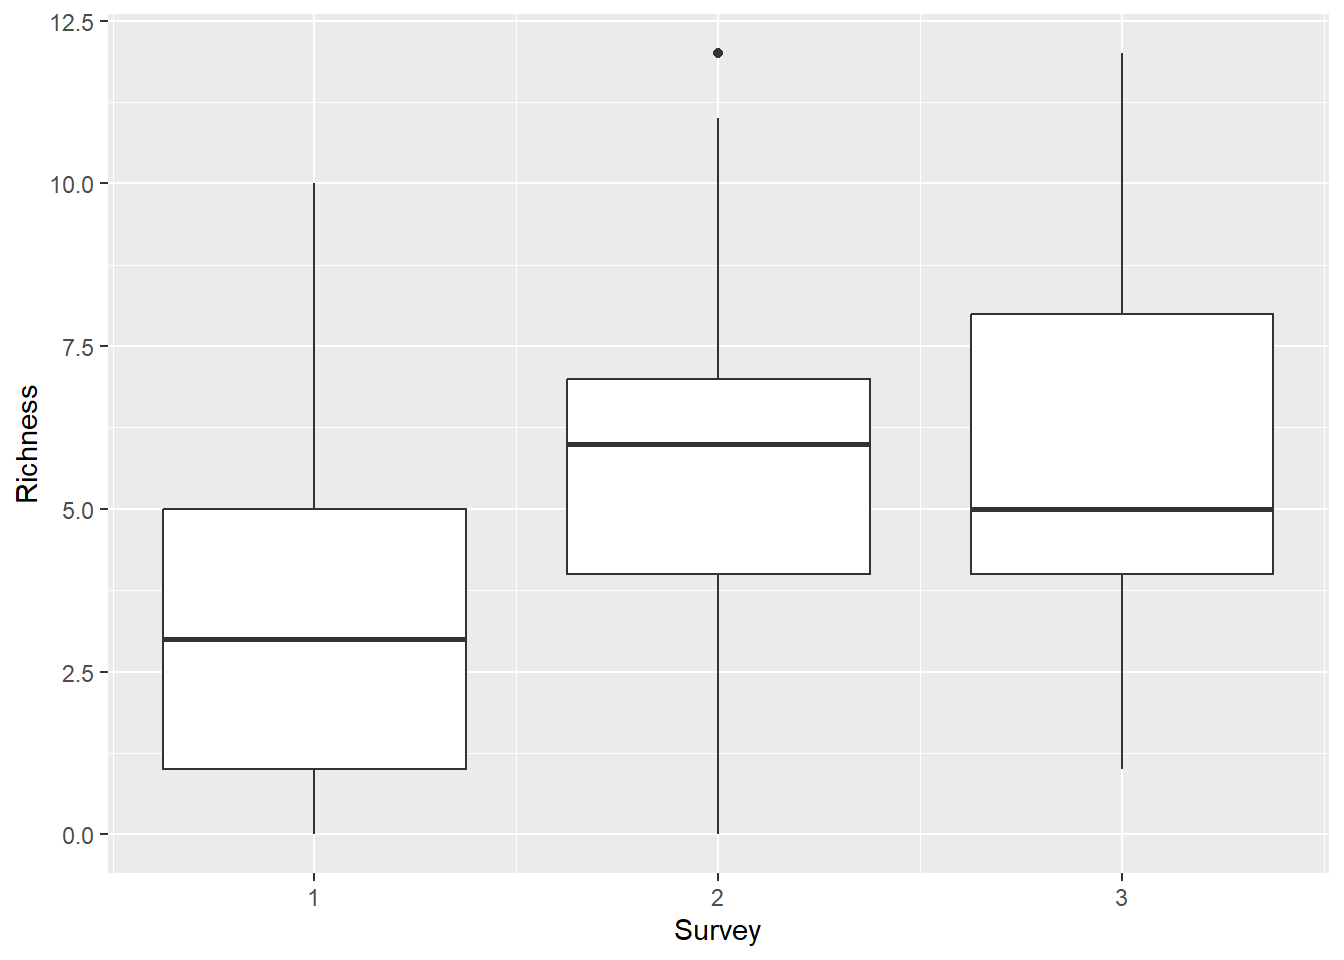
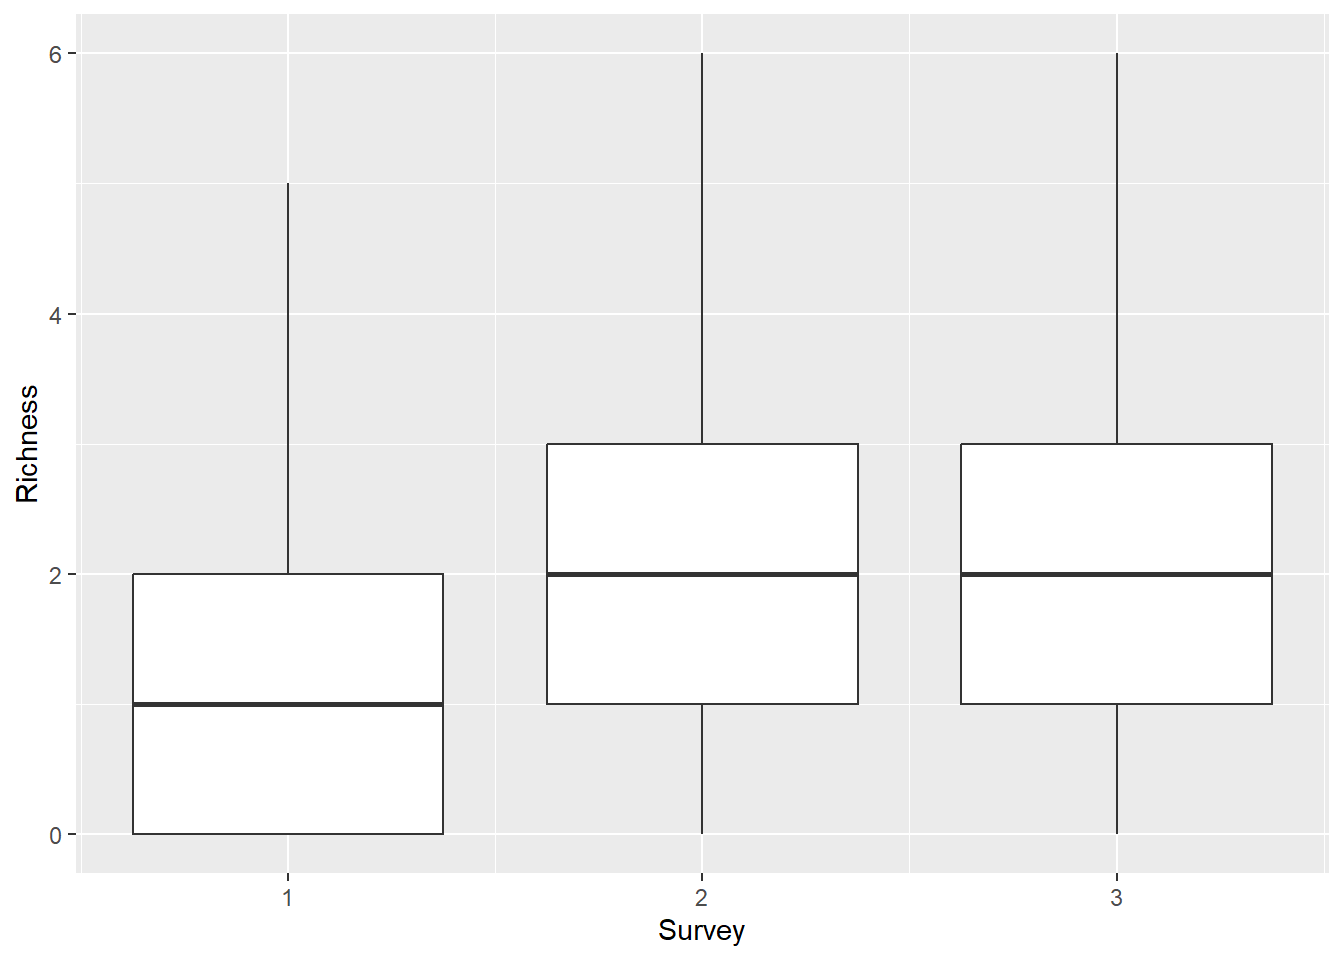
update richness calcs and replace

diff --git a/aquatic-plants.html b/aquatic-plants.html
@@ -486,7 +486,7 @@ First, let’s estimate species richness for each <code>Site</code> and
 <code>Longitude</code> and <code>Latitude</code> here so we can play
 with those below.</p>
 <div class="sourceCode" id="cb6"><pre class="sourceCode r"><code class="sourceCode r"><span id="cb6-1"><a href="#cb6-1" tabindex="-1"></a>richness <span class="ot">&lt;-</span> long_data <span class="sc">%&gt;%</span> </span>
-<span id="cb6-2"><a href="#cb6-2" tabindex="-1"></a>  <span class="fu">group_by</span>(Site, Survey, Longitude, Latitude) <span class="sc">%&gt;%</span> </span>
+<span id="cb6-2"><a href="#cb6-2" tabindex="-1"></a>  <span class="fu">group_by</span>(Site, Survey, Toss, Longitude, Latitude) <span class="sc">%&gt;%</span> </span>
 <span id="cb6-3"><a href="#cb6-3" tabindex="-1"></a>  <span class="fu">summarize</span>(<span class="at">Richness =</span> <span class="fu">sum</span>(Presence))</span></code></pre></div>
 <p>Now we can make a boxplot to visualize richness across surveys (June,
 July, August) to see if there are obvious seasonal trends.</p>
@@ -495,8 +495,8 @@ July, August) to see if there are obvious seasonal trends.</p>
 <p><img src="aquatic-plants_files/figure-html/unnamed-chunk-8-1.png" width="672" /></p>
 <p>This is cool, but you could spend some time to make it a little
 prettier. It looks like there is an increase from June through the later
-months, but it’s not super clear whether survey <code>2</code> and
-<code>3</code> differed from one another.</p>
+months, but it’s not super clear whether <code>Richness</code> differed
+between surveys <code>2</code> and <code>3</code>.</p>
 <p>You could formally test for differences among groups using a variety
 of approaches.</p>
 </div>
@@ -511,7 +511,7 @@ were significant differences in Richness among surveys.</p>
 <span id="cb8-3"><a href="#cb8-3" tabindex="-1"></a>    Kruskal<span class="sc">-</span>Wallis rank sum test</span>
 <span id="cb8-4"><a href="#cb8-4" tabindex="-1"></a></span>
 <span id="cb8-5"><a href="#cb8-5" tabindex="-1"></a>data<span class="sc">:</span>  Richness by Survey</span>
-<span id="cb8-6"><a href="#cb8-6" tabindex="-1"></a>Kruskal<span class="sc">-</span>Wallis chi<span class="sc">-</span>squared <span class="ot">=</span> <span class="fl">33.549</span>, df <span class="ot">=</span> <span class="dv">2</span>, p<span class="sc">-</span>value <span class="ot">=</span> <span class="fl">5.187e-08</span></span></code></pre></div>
+<span id="cb8-6"><a href="#cb8-6" tabindex="-1"></a>Kruskal<span class="sc">-</span>Wallis chi<span class="sc">-</span>squared <span class="ot">=</span> <span class="fl">60.202</span>, df <span class="ot">=</span> <span class="dv">2</span>, p<span class="sc">-</span>value <span class="ot">=</span> <span class="fl">8.459e-14</span></span></code></pre></div>
 <p>This tells us that there were differences among surveys, but it
 doesn’t give us any statistical information about how richness differed
 among sites. For that you’d need to use some kind of pairwise comparison
@@ -528,8 +528,8 @@ specifically for that approach (there are a bunch).</p>
 <span id="cb9-7"><a href="#cb9-7" tabindex="-1"></a>data<span class="sc">:</span>  richness<span class="sc">$</span>Richness and richness<span class="sc">$</span>Survey </span>
 <span id="cb9-8"><a href="#cb9-8" tabindex="-1"></a></span>
 <span id="cb9-9"><a href="#cb9-9" tabindex="-1"></a>  <span class="dv">1</span>       <span class="dv">2</span></span>
-<span id="cb9-10"><a href="#cb9-10" tabindex="-1"></a><span class="dv">2</span> <span class="fl">8.6e-07</span> <span class="sc">-</span></span>
-<span id="cb9-11"><a href="#cb9-11" tabindex="-1"></a><span class="dv">3</span> <span class="fl">3.2e-06</span> <span class="dv">1</span></span>
+<span id="cb9-10"><a href="#cb9-10" tabindex="-1"></a><span class="dv">2</span> <span class="fl">3.4e-11</span> <span class="sc">-</span></span>
+<span id="cb9-11"><a href="#cb9-11" tabindex="-1"></a><span class="dv">3</span> <span class="fl">7.0e-11</span> <span class="dv">1</span></span>
 <span id="cb9-12"><a href="#cb9-12" tabindex="-1"></a></span>
 <span id="cb9-13"><a href="#cb9-13" tabindex="-1"></a>P value adjustment method<span class="sc">:</span> bonferroni </span></code></pre></div>
 <p>This output shows that richness differed significantly between
@@ -580,19 +580,19 @@ like.</p>
 <span id="cb10-21"><a href="#cb10-21" tabindex="-1"></a></span>
 <span id="cb10-22"><a href="#cb10-22" tabindex="-1"></a>(Dispersion parameter <span class="cf">for</span> poisson family taken to be <span class="dv">1</span>)</span>
 <span id="cb10-23"><a href="#cb10-23" tabindex="-1"></a></span>
-<span id="cb10-24"><a href="#cb10-24" tabindex="-1"></a>    Null deviance<span class="sc">:</span> <span class="fl">340.47</span>  on <span class="dv">161</span>  degrees of freedom</span>
-<span id="cb10-25"><a href="#cb10-25" tabindex="-1"></a>Residual deviance<span class="sc">:</span> <span class="fl">207.62</span>  on <span class="dv">156</span>  degrees of freedom</span>
-<span id="cb10-26"><a href="#cb10-26" tabindex="-1"></a>AIC<span class="sc">:</span> <span class="fl">730.52</span></span>
+<span id="cb10-24"><a href="#cb10-24" tabindex="-1"></a>    Null deviance<span class="sc">:</span> <span class="fl">639.03</span>  on <span class="dv">485</span>  degrees of freedom</span>
+<span id="cb10-25"><a href="#cb10-25" tabindex="-1"></a>Residual deviance<span class="sc">:</span> <span class="fl">506.18</span>  on <span class="dv">480</span>  degrees of freedom</span>
+<span id="cb10-26"><a href="#cb10-26" tabindex="-1"></a>AIC<span class="sc">:</span> <span class="fl">1473.7</span></span>
 <span id="cb10-27"><a href="#cb10-27" tabindex="-1"></a></span>
 <span id="cb10-28"><a href="#cb10-28" tabindex="-1"></a>Number of Fisher Scoring iterations<span class="sc">:</span> <span class="dv">5</span></span></code></pre></div>
 <p>We could check out the residuals to see whether we are in extreme
 violation of distributional assumptions. These plots show that the model
-residuals are more-or-less symmetrical, which aligns with assumptions of
-the Poissson distribution. There are a few zeroes in the earliest survey
-that are expressed as a peak around -1 for survey 1 in the plot below.
-If this was a larger proportion we’d have to be careful about assessing
-their influence, and may opt for an alternative approach, but this will
-suffice for the rest of our example for now.</p>
+residuals in Surveys 2 and 3 are more-or-less symmetrical, which aligns
+with assumptions of the Poisson distribution. But, there are quite a few
+zeroes in the earliest survey that are expressed as a peak around -1 for
+survey 1 in the plot below. If this was a real analysis we’d have to be
+careful about assessing their influence, and may opt for an alternative
+approach, but this will suffice for the rest of our example for now.</p>
 <div class="sourceCode" id="cb11"><pre class="sourceCode r"><code class="sourceCode r"><span id="cb11-1"><a href="#cb11-1" tabindex="-1"></a><span class="co"># You can extract model residuals (errors) like this</span></span>
 <span id="cb11-2"><a href="#cb11-2" tabindex="-1"></a><span class="co"># and add them to the original data</span></span>
 <span id="cb11-3"><a href="#cb11-3" tabindex="-1"></a>richness<span class="sc">$</span>residuals <span class="ot">&lt;-</span> richness_mod<span class="sc">$</span>residuals</span>
@@ -616,7 +616,7 @@ opposed to the link scale, but that’s a different workshop).</p>
 improve, for example adding a color ramp that’s easier to read.</p>
 <div class="sourceCode" id="cb14"><pre class="sourceCode r"><code class="sourceCode r"><span id="cb14-1"><a href="#cb14-1" tabindex="-1"></a><span class="co"># We could use the RColorBrewer package to make a spectral scale that looks cool</span></span>
 <span id="cb14-2"><a href="#cb14-2" tabindex="-1"></a>myPalette <span class="ot">&lt;-</span> <span class="fu">colorRampPalette</span>(<span class="fu">rev</span>(<span class="fu">brewer.pal</span>(<span class="dv">10</span>, <span class="st">&quot;Spectral&quot;</span>)))</span>
-<span id="cb14-3"><a href="#cb14-3" tabindex="-1"></a>sc <span class="ot">&lt;-</span> <span class="fu">scale_colour_gradientn</span>(<span class="at">colours =</span> <span class="fu">myPalette</span>(<span class="dv">10</span>), <span class="at">limits=</span><span class="fu">c</span>(<span class="dv">1</span>, <span class="dv">10</span>),</span>
+<span id="cb14-3"><a href="#cb14-3" tabindex="-1"></a>sc <span class="ot">&lt;-</span> <span class="fu">scale_colour_gradientn</span>(<span class="at">colours =</span> <span class="fu">myPalette</span>(<span class="dv">10</span>), <span class="at">limits=</span><span class="fu">c</span>(<span class="dv">1</span>, <span class="dv">4</span>),</span>
 <span id="cb14-4"><a href="#cb14-4" tabindex="-1"></a>                             <span class="at">oob =</span> scales<span class="sc">::</span>squish)</span>
 <span id="cb14-5"><a href="#cb14-5" tabindex="-1"></a></span>
 <span id="cb14-6"><a href="#cb14-6" tabindex="-1"></a><span class="co"># Then we just add it to our ggplot like so, along with a couple of other </span></span>
@@ -650,7 +650,7 @@ here.</p>
 analyze species richness in the example above, but this time we’ll use a
 “binomial” family for logistic regression. It really is that easy to use
 in R.</p>
-<div class="sourceCode" id="cb16"><pre class="sourceCode r"><code class="sourceCode r"><span id="cb16-1"><a href="#cb16-1" tabindex="-1"></a>presence_mod <span class="ot">&lt;-</span> <span class="fu">glm</span>(Presence <span class="sc">~</span> Longitude <span class="sc">*</span> Latitude <span class="sc">+</span> Survey,</span>
+<div class="sourceCode" id="cb16"><pre class="sourceCode r"><code class="sourceCode r"><span id="cb16-1"><a href="#cb16-1" tabindex="-1"></a>presence_mod <span class="ot">&lt;-</span> <span class="fu">glm</span>(Presence <span class="sc">~</span> Longitude <span class="sc">*</span> Latitude <span class="sc">+</span> <span class="fu">factor</span>(Survey),</span>
 <span id="cb16-2"><a href="#cb16-2" tabindex="-1"></a>                    <span class="at">data =</span> presence_data,</span>
 <span id="cb16-3"><a href="#cb16-3" tabindex="-1"></a>                    <span class="at">family =</span> binomial)</span></code></pre></div>
 <p>Just as before, we can make predictions from this model. In this
